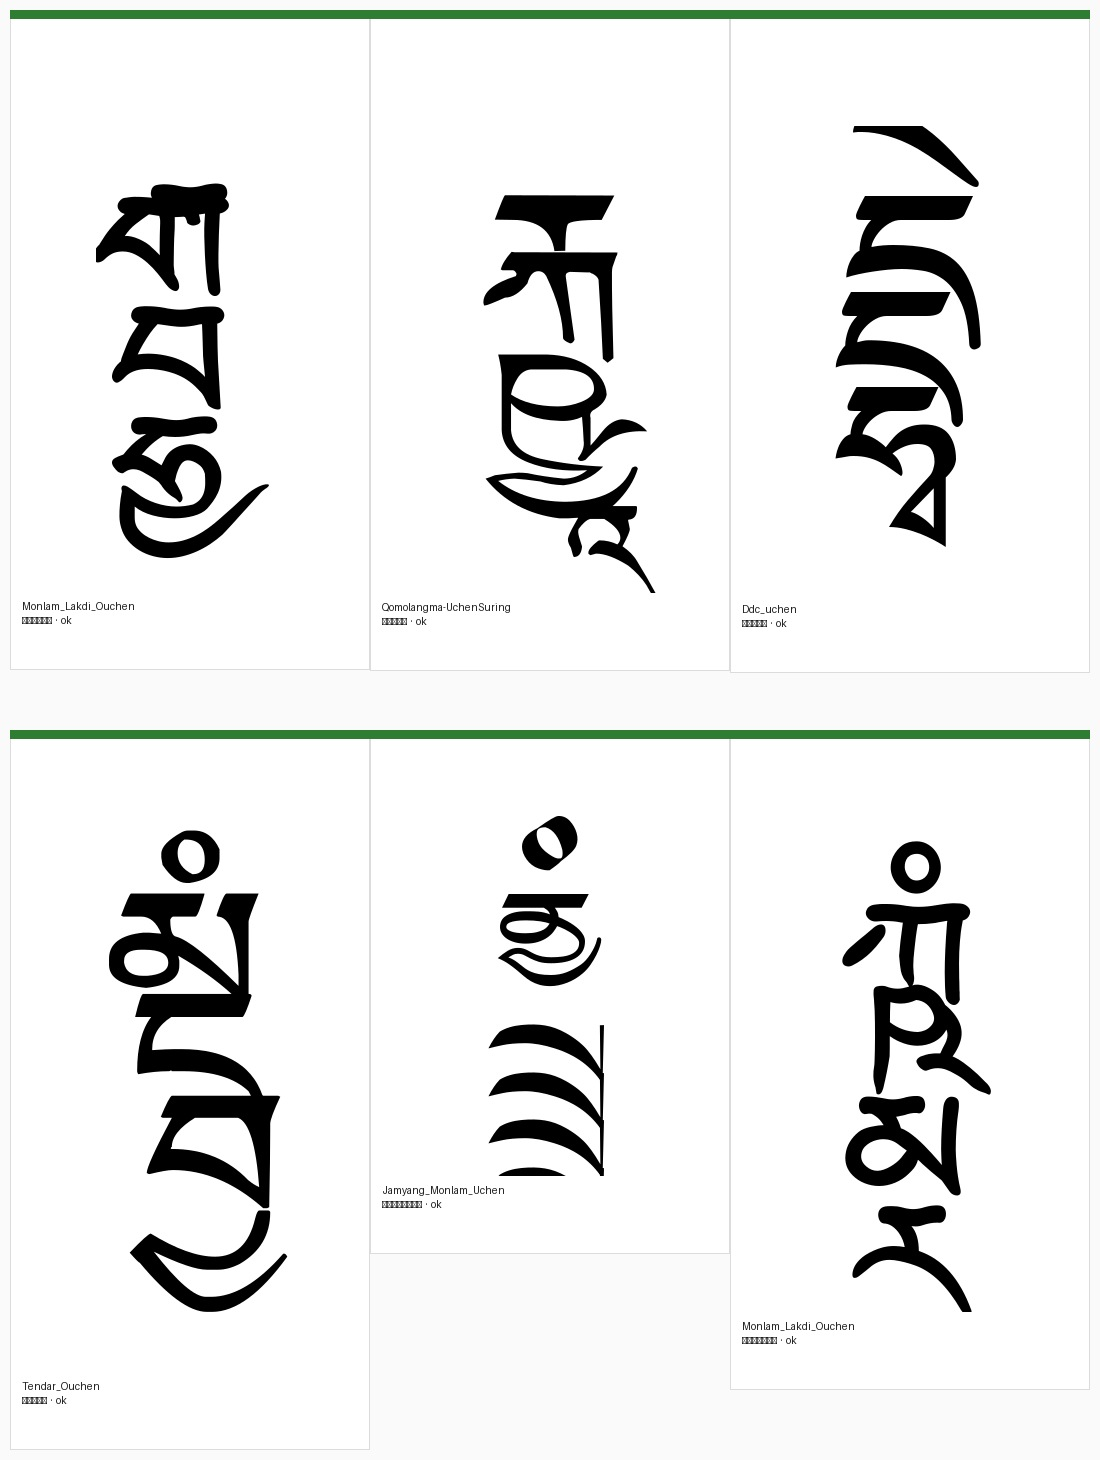
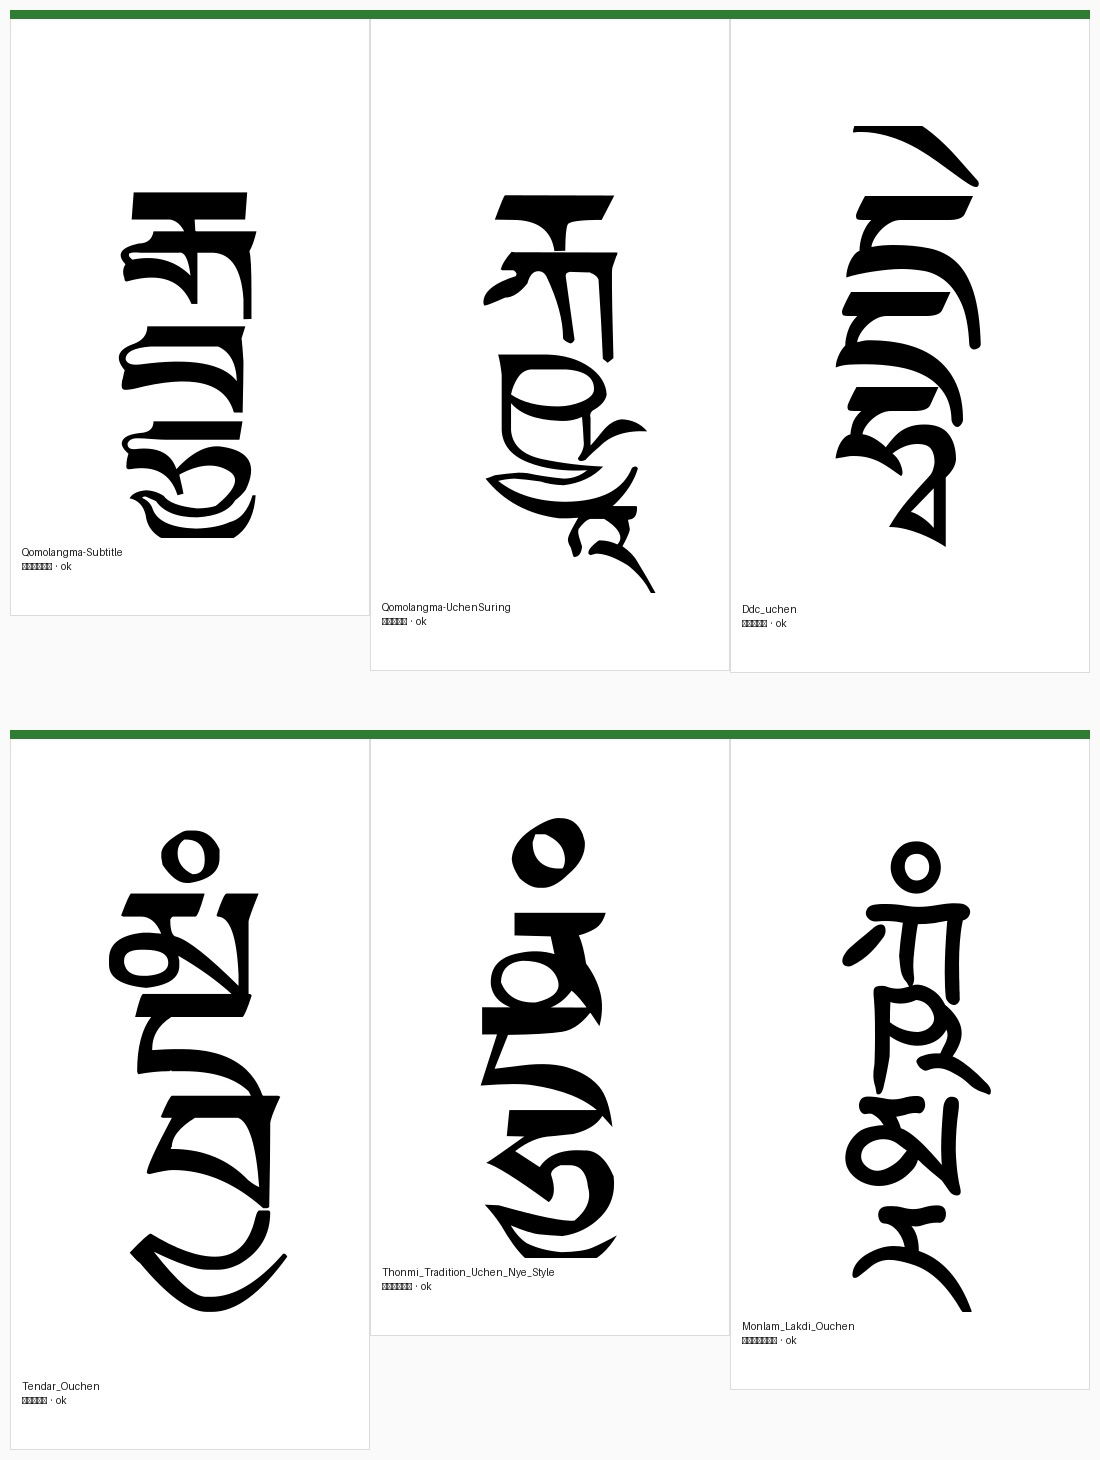
Refine placement heuristics for tsa-phru merges and refresh blog 1 samples.
Exempt ra-go / single top-mark nesting into ཙཚཛ ticks when the mark still reaches the base head, while still catching mid-body and multi-mark pile-ups; update coverage README and regenerated blog 1 pass/fail assets.

diff --git a/coverage_report/coverage_common.py b/coverage_report/coverage_common.py
@@ -37,6 +37,11 @@ TSA_PHRU = "\u0f39"
 # Relative-x shift (vs the same stack without tsa-phru) that means U+0F39
 # disturbed another mark's placement. Tuned on shorthand-pass review.
 TSA_PHRU_MARK_SHIFT_THRESHOLD = 0.30
+# Letters whose glyph already includes a tsa-phru tick (ཙ ཚ ཛ / ྩ ྪ ྫ).
+# A ra-go / top mark nesting into that tick is normal, not a merge failure.
+TSA_PHRU_BASE_LETTERS = frozenset("\u0f59\u0f5a\u0f5b")  # ཙ ཚ ཛ
+TSA_PHRU_SUBJOINED_LETTERS = frozenset("\u0fa9\u0faa\u0fab")  # ྩ ྪ ྫ
+TSA_PHRU_LETTERS = TSA_PHRU_BASE_LETTERS | TSA_PHRU_SUBJOINED_LETTERS
 
 TIBETAN_BASE_LETTER_RANGES = ((0x0F40, 0x0F6C),)
 TIBETAN_SUBJOINED_RANGES = ((0x0F90, 0x0FBC),)
@@ -688,6 +693,8 @@ def detect_placement_warnings(text: str, glyph_boxes: list[dict[str, object]]) -
         warnings.append("top_mark_horizontal_misalignment")
     if detect_mark_horizontal_misalignment(text, glyph_boxes):
         warnings.append("mark_horizontal_misalignment")
+    if detect_superscript_merge(text, glyph_boxes):
+        warnings.append("superscript_merge")
 
     if has_bottom_vowel(text):
         # The bottom-vowel glyph is usually one of the final glyphs, but top
@@ -714,15 +721,20 @@ def detect_placement_warnings(text: str, glyph_boxes: list[dict[str, object]]) -
             )
             overlap = min(bottom_top, previous_top) - max(bottom_bottom, previous_bottom)
             bottom_height = bottom_top - bottom_bottom
+            # Positive when the vowel hangs below the previous layer. Normal
+            # āchung / zhabs-kyu attachment overlaps the previous glyph but still
+            # protrudes; only treat as absorbed/inside when it barely hangs.
+            bottom_extends = previous_bottom - bottom_bottom
             bottom_absorbed = (
                 bottom_height > 0
                 and overlap / bottom_height >= 0.85
-                and bottom_bottom > previous_bottom - 0.08 * stack_height
+                and bottom_extends < 0.08 * stack_height
             )
             bottom_inside_previous = (
                 bottom_height > 0
                 and overlap / bottom_height >= 0.45
                 and bottom_top > previous_bottom + 0.20 * bottom_height
+                and bottom_extends < 0.20 * bottom_height
             )
             if (
                 bottom_top > previous_top - min_layer_gap
@@ -1093,36 +1105,83 @@ def detect_top_diacritic_collision(text: str, glyph_boxes: list[dict[str, object
     return x_spread <= 0.08 * avg_width and y_spread <= 0.08 * avg_height
 
 
+def _top_mark_attachment_letter(text: str) -> str | None:
+    """Last base/subjoined letter before trailing top marks.
+
+    Bottom vowels between the letter and the top-mark run (e.g. ཚུཾ) are
+    skipped so the attachment consonant is ཚ, not ུ.
+    """
+    if not text or text[-1] not in TOP_MARKS:
+        return None
+    i = len(text) - 1
+    while i >= 0 and text[i] in TOP_MARKS:
+        i -= 1
+    while i >= 0 and text[i] in BOTTOM_VOWELS:
+        i -= 1
+    if i < 0:
+        return None
+    return text[i]
+
+
 def detect_top_mark_overlap(text: str, glyph_boxes: list[dict[str, object]]) -> bool:
     """Flag top marks colliding with / swallowed by the preceding body glyph.
 
     Motivating false positive from shorthand-pass review (2026-07-22):
     - AmdoClassic4 / tshuM (ཚུཾ): anusvara mostly inside the tsha+u composite
+
+    Simple consonant + naro / gigu (e.g. Monlam Lakdi ཚོ) must not fail: those
+    marks sit on the head bar, so their ink boxes overlap the letter bbox even
+    when placement is correct. Only flag when the mark does not reach the head.
+
+    Exception: ཙ / ཚ / ཛ / ྩ / ྪ / ྫ already include a tsa-phru tick, so a
+    *single* top mark nesting into that tick is expected when it still reaches
+    the **base** head (same rationale as ``superscript_merge``). Mid-body marks
+    (KhaWa ``ཛྫཱཾ``) and multi-mark pile-ups (``ཚོཾ``, ``ཛིི``) still fail —
+    audit 2026-07-23.
     """
     top_mark_count = sum(1 for ch in text if ch in TOP_MARKS)
     if top_mark_count < 1 or text[-1:] not in TOP_MARKS or len(glyph_boxes) < 2:
         return False
 
     last = glyph_boxes[-1]
+    # Inherent tsa-phru: allow one mark into the tick only if it still reaches
+    # near the base head. Compare against glyph_boxes[0], not the previous glyph
+    # (which may be āchung sitting far below).
+    if (
+        top_mark_count == 1
+        and _top_mark_attachment_letter(text) in TSA_PHRU_LETTERS
+    ):
+        base = glyph_boxes[0]
+        base_top = int(base["ytop"])
+        base_height = base_top - int(base["ybot"])
+        if base_height > 0 and int(last["ytop"]) >= base_top - 0.15 * base_height:
+            return False
     previous = glyph_boxes[-2]
     last_top = int(last["ytop"])
     last_bottom = int(last["ybot"])
     previous_top = int(previous["ytop"])
     previous_bottom = int(previous["ybot"])
+    previous_height = previous_top - previous_bottom
     last_height = last_top - last_bottom
-    if last_height <= 0:
+    if last_height <= 0 or previous_height <= 0:
         return False
 
     overlap = min(last_top, previous_top) - max(last_bottom, previous_bottom)
     overlap_ratio = overlap / last_height if overlap > 0 else 0
 
     # Top marks should sit above the preceding body/stack glyph. If a separate
-    # top mark is mostly inside that preceding glyph's vertical span, it is
-    # colliding with a top vowel/mark already present in the composite glyph.
+    # top mark is mostly inside that preceding glyph's vertical span *and* does
+    # not reach the head line, it is colliding with / swallowed by the body.
     #
     # Threshold 0.60 (was 0.65). Motivating false positive from shorthand-pass
     # review (2026-07-22): AmdoClassic4 / tshuM (ཚུཾ), overlap ratio ~0.645.
-    if overlap_ratio >= 0.60 and last_bottom < previous_top:
+    # Head-reaching marks (Monlam Lakdi ཚོ naro on tsha) are allowed.
+    reaches_head = last_top >= previous_top - 0.02 * previous_height
+    if (
+        not reaches_head
+        and overlap_ratio >= 0.60
+        and last_bottom < previous_top
+    ):
         return True
 
     for body in glyph_boxes[:-1]:
@@ -1318,6 +1377,81 @@ def detect_subscript_containment(text: str, glyph_boxes: list[dict[str, object]]
     return False
 
 
+def _is_bottom_vowel_glyph_name(name: object) -> bool:
+    text = str(name or "").lower()
+    return any(
+        key in text
+        for key in (
+            "shapkyu",
+            "shabkyu",
+            "achung",
+            "0f71",
+            "0f74",
+            "0f75",
+            "zhabs",
+            "a-chung",
+            "_-a",
+            "uni0f71",
+            "uni0f74",
+        )
+    )
+
+
+def detect_superscript_merge(text: str, glyph_boxes: list[dict[str, object]]) -> bool:
+    """Flag a separate ra-go / superscript glyph merged into the next letter's head.
+
+    Motivating false positive from blog/audit review (2026-07-23):
+    - Monlam_Lakdi_Ouchen / རྒྦྷྱཱ: ``tibRaGo4`` mostly inside ``tib_Ga4`` head
+      (overlap ~0.71 of ra-go height, only ~0.29 protruding above ga).
+
+    Precomposed ra-go ligatures (single glyph for རྒ) are out of scope here.
+
+    Exception: ྩ / ྪ / ྫ already carry a tsa-phru tick, so a ra-go (or other
+    top attachment) nesting into that tick is expected — do not flag
+    རྩ / རྪ / རྫ style stacks as merge failures.
+    """
+    if len(glyph_boxes) < 2 or not text:
+        return False
+    # ra (U+0F62) followed by a subjoined letter
+    if text[0] != "\u0F62":
+        return False
+    if len(text) < 2 or not ("\u0F90" <= text[1] <= "\u0FBC"):
+        return False
+    # Inherent tsa-phru on ྩ ྪ ྫ: merge into the tick is fine.
+    if text[1] in TSA_PHRU_SUBJOINED_LETTERS:
+        return False
+
+    rago = glyph_boxes[0]
+    base = glyph_boxes[1]
+    name = str(rago.get("name") or "").lower()
+    # Prefer explicit ra-go glyph names from split stacks (tibRaGo*, tibtStack4Rg).
+    # Skip precomposed ra+base ligatures and unrelated leading glyphs.
+    looks_like_rago = (
+        "rago" in name
+        or "ra_go" in name
+        or "stack4rg" in name
+        or "stack3rg" in name
+        or name.endswith("rg")
+        or ".rg" in name
+    )
+    if not looks_like_rago:
+        return False
+
+    rago_top = int(rago["ytop"])
+    rago_bottom = int(rago["ybot"])
+    base_top = int(base["ytop"])
+    base_bottom = int(base["ybot"])
+    rago_height = rago_top - rago_bottom
+    if rago_height <= 0:
+        return False
+    overlap = min(rago_top, base_top) - max(rago_bottom, base_bottom)
+    if overlap <= 0:
+        return False
+    overlap_ratio = overlap / rago_height
+    protrude_ratio = (rago_top - base_top) / rago_height
+    return overlap_ratio >= 0.55 and protrude_ratio <= 0.40
+
+
 def detect_subscript_overlap(text: str, glyph_boxes: list[dict[str, object]]) -> bool:
     metrics = stack_metrics(text)
     if int(metrics["subjoined_count"]) < 2 or len(glyph_boxes) < 3:
@@ -1326,6 +1460,10 @@ def detect_subscript_overlap(text: str, glyph_boxes: list[dict[str, object]]) ->
     trailing_top_marks = trailing_top_mark_glyph_count(text, glyph_boxes)
     end_idx = len(glyph_boxes) - trailing_top_marks
     stack_boxes = glyph_boxes[:end_idx]
+    # Bottom vowels often nest into the previous layer by design; do not treat
+    # that attachment as a collapsed subscript pair (Monlam Lakdi ཀྵྞུ).
+    while stack_boxes and _is_bottom_vowel_glyph_name(stack_boxes[-1].get("name")):
+        stack_boxes = stack_boxes[:-1]
     if len(stack_boxes) < 2:
         return False
 
@@ -1333,6 +1471,8 @@ def detect_subscript_overlap(text: str, glyph_boxes: list[dict[str, object]]) ->
     # later layer spends a large share of its height inside the previous layer,
     # it still appears collapsed rather than stacked.
     for previous, current in zip(stack_boxes, stack_boxes[1:]):
+        if _is_bottom_vowel_glyph_name(current.get("name")):
+            continue
         current_top = int(current["ytop"])
         current_bottom = int(current["ybot"])
         previous_top = int(previous["ytop"])

diff --git a/blog/01-font-coverage-before-synthetic-ocr.md b/blog/01-font-coverage-before-synthetic-ocr.md
@@ -54,17 +54,17 @@ Deep stacks that still resolve into readable layers — all faces below are cata
 
 | Font | Catalog type | Stack | Why it matters |
 |------|--------------|-------|----------------|
-| Monlam Lakdi Ouchen | Uchen · Zabma | རྒྦྷྱཱ | Multi-layer *ba* / *ha* / *ya* under *ra-go*, with *āchung* |
+| Qomolangma Subtitle | Uchen · Zabma | རྒྦྷྱཱ | Same deep SKT stack with a clean, separate *ra-go* |
 | Qomolangma Uchen Suring | Uchen · Zabma | རྐྵྱཱ | *kṣa*-type conjuncts that many faces still get wrong |
 | DDC Uchen | Uchen · Zabma | དྡྷྭེ | Ligated body + top vowel |
 | Tendar Ouchen | Uchen · Zabma | མྔྦྱཾ | Deep stack + *anusvāra* |
-| Jamyang Monlam Uchen | Uchen · Zabma | ནྱྲྲྲྲྲཾ | Stress test: repeated *ra* layers |
+| Thonmi Tradition Uchen Nye | Uchen · Zabma | ནྡྷྱཱཾ | Tall *ddha* / *ya* stack with *āchung* + *anusvāra* |
 | Monlam Lakdi Ouchen | Uchen · Zabma | ཀྵྨྼྻུཾ | Very tall SKT stack still descending cleanly |
 
 <p>
-<img src="assets/01-coverage/pass_Monlam_Lakdi_Ouchen_9d98a1a9.png" alt="Monlam Lakdi Ouchen rendering རྒྦྷྱཱ" height="180"/>
+<img src="assets/01-coverage/pass_close_qomo_rgbhya.png" alt="Qomolangma Subtitle rendering with clean ra-go" height="180"/>
 &nbsp;
-<img src="assets/01-coverage/pass_Qomolangma-UchenSuring_6265a2c7.png" alt="Qomolangma Uchen Suring rendering རྐྵྱཱ" height="180"/>
+<img src="assets/01-coverage/pass_Qomolangma-UchenSuring_6265a2c7.png" alt="Qomolangma Uchen Suring rendering" height="180"/>
 </p>
 
 Ume faces that also clear the long SKT tail look different on the page, but the coverage question is the same. A few high-coverage ume passes on བྷྲཱུྃ:
@@ -79,28 +79,29 @@ Ume faces that also clear the long SKT tail look different on the page, but the 
 
 ### Failures (uchen)
 
-Same uchen fonts, stacks where shaping “succeeds” but the ink is wrong — or where the engine admits defeat with a dotted circle:
+Stacks where shaping “succeeds” but the ink is wrong — or where the engine admits defeat:
 
 ![Gallery of failed renders flagged by placement heuristics](assets/01-coverage/fail_gallery.jpg)
 
 | Rule | Font | Stack | What you see |
 |------|------|-------|--------------|
-| `floating_bottom_vowel` | Monlam Lakdi Ouchen | ཛཱ | *āchung* does not sit under the body |
-| `top_mark_overlap` | Monlam Lakdi Ouchen | ཚོ | *naro* collides with / is swallowed by the head |
+| `superscript_merge` | Monlam Lakdi Ouchen | རྒྦྷྱཱ | *Ra-go* merged into the *ga* head (same stack Qomolangma draws cleanly) |
+| `top_mark_overlap` | DDC Uchen | ཧྲཽཾ | Top marks collide / get swallowed |
 | `subscript_overlap` | DDC Uchen | རྑྷཾ | Layers crush into each other |
-| `subscript_containment` | DDC Uchen | བྷྲ྄ཱུྃ | A “subscript” drawn entirely inside the previous glyph |
-| `top_diacritic_collision` | Monlam Lakdi Ouchen | བཾཾ | Repeated top marks pile on the same spot |
-| `dotted_circle` | Monlam Lakdi Ouchen | ༹ | Mark never attaches; U+25CC appears |
+| `subscript_containment` | DDC Uchen | བྷྲ྄ཱུྃ | A “subscript” drawn inside the previous glyph |
+| `mid_stem` | DDC Uchen | ཀོུ༹ | *Zhabs kyu* hangs mid-stem after *tsa-phru* |
+| `tsa_phru_mark_shift` | Amdo Classic 2 | རྡེུ༹ | *Tsa-phru* shoves other marks sideways |
+| `missing_base_letter` | Kokonor | ོུ༹ཾ | Mark-only stack; no base letter |
 
 <p>
-<img src="assets/01-coverage/fail_Monlam_Lakdi_Ouchen_6a3a4152.png" alt="top_mark_overlap on ཚོ" height="120"/>
+<img src="assets/01-coverage/fail_Monlam_Lakdi_Ouchen_9d98a1a9.png" alt="superscript_merge ra-go into ga on Monlam Lakdi" height="160"/>
 &nbsp;
-<img src="assets/01-coverage/fail_Ddc_uchen_51c13124.png" alt="subscript_overlap on རྑྷཾ" height="120"/>
+<img src="assets/01-coverage/fail_Ddc_uchen_51c13124.png" alt="subscript_overlap on DDC Uchen" height="120"/>
 &nbsp;
-<img src="assets/01-coverage/fail_Monlam_Lakdi_Ouchen_ecfdebfd.png" alt="dotted_circle on ༹" height="120"/>
+<img src="assets/01-coverage/fail_Kokonor_d6c3c71e.png" alt="missing_base_letter on Kokonor" height="120"/>
 </p>
 
-That last class is the honest failure. The dangerous ones are the middle rows: HarfBuzz returned glyphs, nothing was `.notdef`, and a naïve “shaped OK” check would have green-lit a page that no human would accept as uchen.
+The dangerous ones are not `.notdef` tofu: HarfBuzz returned glyphs, and a naïve “shaped OK” check would have green-lit a page that no human would accept as uchen.
 
 ---
 
@@ -134,7 +135,7 @@ Geometry / placement failures (bounding-box heuristics on the shaped glyphs):
 | `subscript_insufficient_descent` | Next layer does not start lower |
 | `subscript_layer_collision` | ≥4 subscripts jammed into the same vertical band |
 
-The newer rules (`mid_stem`, `tsa_phru_*`, `bottom_vowel_horizontal_misalignment`, `missing_base_letter`) came out of shorthand-pass visual review: fonts that look fine on ordinary BoCorpus stacks still break once *tsa-phru* and packed vowel clusters from abbreviation lists show up.
+The newer rules (`mid_stem`, `tsa_phru_*`, `bottom_vowel_horizontal_misalignment`, `missing_base_letter`, `superscript_merge`) came out of visual review (including shorthand-pass audits): fonts that look fine on ordinary BoCorpus stacks still break once *tsa-phru* and packed vowel clusters from abbreviation lists show up.
 
 ![New placement / hard-fail rules from shorthand review](assets/01-coverage/new_rules_gallery.jpg)
 

diff --git a/coverage_report/README.md b/coverage_report/README.md
@@ -190,9 +190,10 @@ Hard failures:
 - empty shape
 - zero ink for a non-empty glyph sequence
 - **missing base letter**: combining marks / subjoined letters with no Tibetan base consonant (`missing_base_letter`). Often U+0F39 (tsa-phru) plus vowels from shorthand lists: OpenType still treats U+0F39 as a mark, so the layout engine inserts a dotted-circle base. Motivating review cases: Kokonor `U+0F39 U+0F74 U+0F7C U+0F7E`; JMY-MLCRT1.0 `U+0F39 U+0F74 U+0F7C`; JMY-MLCTT1.0 `U+0F39 U+0F7A U+0F7E`; GONGBA-Tibet `U+0F39 U+0F74 U+0F7C`
-- **top mark overlap** threshold 0.60. Motivating review case: AmdoClassic4 `tshuM`
+- **top mark overlap** (`top_mark_overlap`): threshold 0.60, but only when the mark does not reach the preceding glyph's head line (so simple `tsho` naro-on-head passes). Motivating review case: AmdoClassic4 `tshuM`. Exception: ཙ / ཚ / ཛ / ྩ / ྪ / ྫ with a *single* top mark that still reaches the base head (tsa-phru tick nesting); mid-body marks (KhaWa `dz+dz+aM`) and multi-mark pile-ups (`tshoM`, `dzi+i`) still fail
 - Trailing top-mark glyph stripping accounts for ligated marks (i+M as one glyph). Motivating review cases: Ddc_uchen `s+ny+riM`; Dundrupfont-Regular `r+ts+toM`
-- floating bottom-vowel geometry in tall stacks
+- floating bottom-vowel geometry in tall stacks (requires the vowel barely protrude below the previous layer; normal āchung / zhabs-kyu attachment that overlaps but hangs below is allowed — Monlam Lakdi `dzaA` / `k+Sh+Nu`)
+- **superscript merge** (`superscript_merge`): a separate ra-go glyph is mostly merged into the next letter's head instead of sitting above it. Motivating review case: Monlam_Lakdi_Ouchen `r+gb+h+yaA`. Exception: ྩ / ྪ / ྫ (and base ཙ / ཚ / ཛ) already include a tsa-phru tick, so nesting into that tick is allowed (`rts` / `rtsh` / `rdz` stacks)
 - **mid-stem** (`mid_stem`): the lowest body-attached layer (zhabs-kyu / any subjoined: ya-tag, ra-tag, la-tag, …) sits partway down the base stem while the stem continues below it. Motivating review cases: Ddc_uchen `k^u+o`; Bhozuk_Gendun_Chompel `t^u+iM`; Himalaya_2 `d^u+o`; FZZWXBTOT_Uni `g^u+i`; Bhozuk_Vijahara_A `t+yoM`
 - **bottom vowel horizontal misalignment** (`bottom_vowel_horizontal_misalignment`): zhabs-kyu (or another bottom vowel) is drawn mostly beside the base. Catches fonts that bake a dotted-circle fallback into the vowel glyph instead of emitting a separate `dottedcircle` name. Motivating review case: Kokonor `d^u+o`
 - **tsa-phru mark shift** (`tsa_phru_mark_shift`): reshape the same stack without U+0F39 and compare relative-x of the other marks; fail when tsa-phru shoves zhabs-kyu / dengbu / naro / etc. When the without-tsa-phru shape ligates the top mark into the body, fall back to absolute top-mark displacement over the base. Motivating review cases: AmdoClassic2 `rd^u+e`; Amdo_classic_3 `n^o`